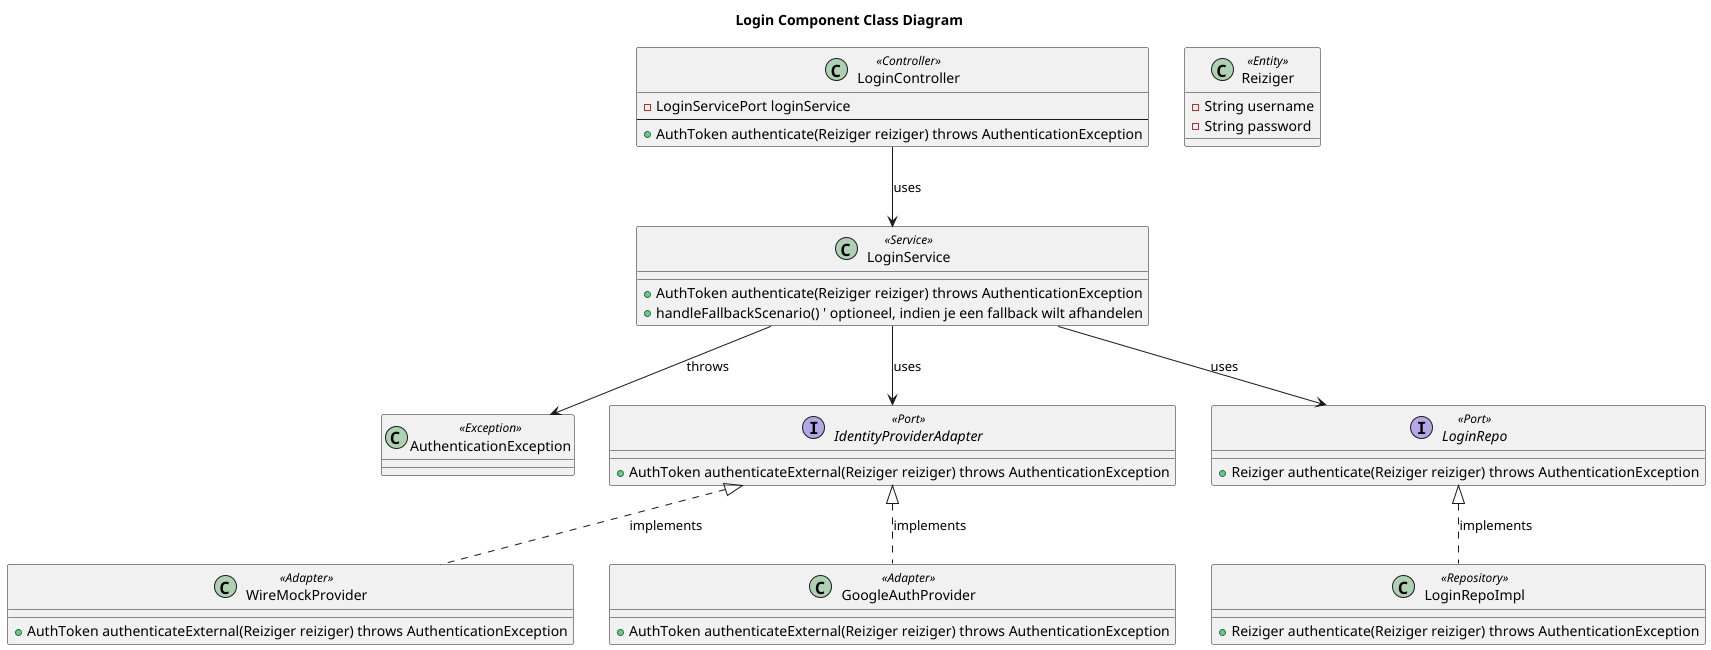
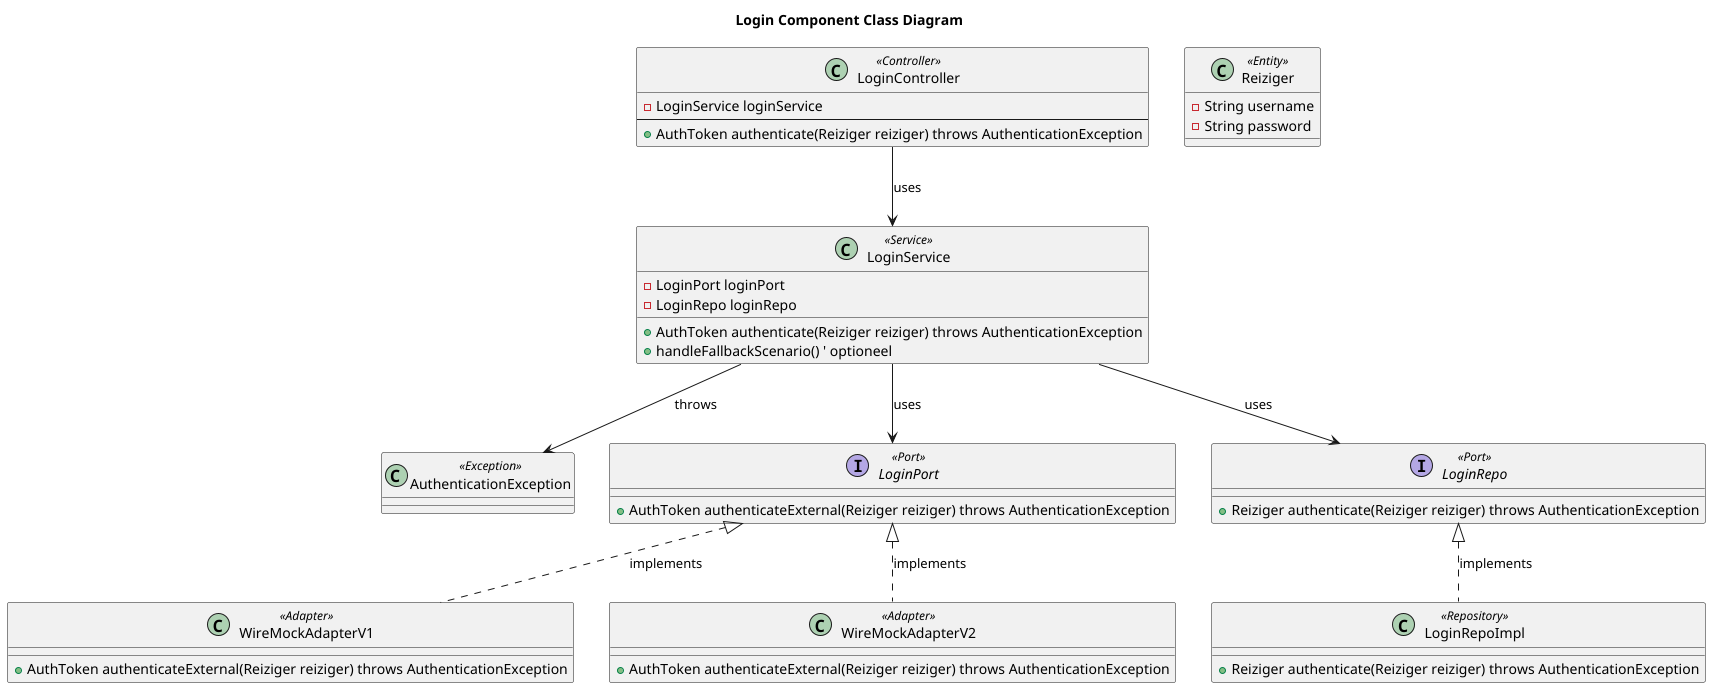
ontwerpvraag

diff --git a/software-guidebook/component-code/ahmed/ReadMe.MD b/software-guidebook/component-code/ahmed/ReadMe.MD
@@ -1,34 +1,28 @@
 
 ### Design Pattern en Principe Keuze
 
-Voor mijn design pattern keuze heb ik gekozen voor het **Adapter Pattern**. Dit pattern maakt het mogelijk om externe authenticatieproviders, zoals de WireMock API en Google Auth API, op een uniforme en uitbreidbare wijze te integreren. Dankzij het Adapter Pattern kan de Login Service eenvoudig overschakelen tussen verschillende externe providers of nieuwe providers toevoegen zonder de bestaande code te wijzigen. Dit sluit naadloos aan bij het **Open/Closed Principe**, waarbij het systeem open is voor uitbreiding maar gesloten voor aanpassingen.
+Voor mijn design pattern keuze heb ik gekozen voor het Adapter Pattern. Dit pattern maakt het mogelijk om de communicatie met externe authenticatieproviders op een uniforme en uitbreidbare wijze te organiseren. In dit geval integreer ik met de WireMock API, waarbij ik twee versies onderhoud (WireMock Adapter v1 en v2). Dankzij het Adapter Pattern kan de Login Service eenvoudig overschakelen tussen verschillende adapter-implementaties of nieuwe versies toevoegen zonder de bestaande code te wijzigen. Dit sluit naadloos aan bij het Open/Closed Principe, omdat het systeem open is voor uitbreiding maar gesloten voor modificatie.
 
-Daarnaast pas ik het **Single Responsibility Principe** toe, wat inhoudt dat elke klasse slechts één specifieke verantwoordelijkheid heeft. Zo is de Login Controller uitsluitend verantwoordelijk voor het verwerken van authenticatieaanvragen, terwijl de Login Service de businesslogica beheert en de adapter (via de IdentityProviderAdapter interface) de communicatie met externe systemen afhandelt. Deze duidelijke scheiding van verantwoordelijkheden zorgt voor een beter onderhoudbaar en testbaar systeem.
+Daarnaast pas ik het Single Responsibility Principe toe, wat betekent dat elke klasse slechts één specifieke verantwoordelijkheid heeft. De Login Controller verwerkt alleen de inlogverzoeken, de Login Service beheert de businesslogica, en de adapters (via de Login Port) zorgen voor de communicatie met de externe API. Deze duidelijke scheiding van verantwoordelijkheden maakt het systeem eenvoudiger te onderhouden en te testen.
+
+Door meerdere versies van de WireMock Adapter te behouden, kan ik bestaande functionaliteit ondersteunen terwijl ik nieuwe versies geleidelijk implementeer. Hierdoor blijft de front-end stabiel, zelfs als de externe API verandert.
 
 ---
 ### COMPONENT DIAGRAM
 
-![Component Diagram](login-controller-Component_Diagram___TripTop_Backend.png)
+![Component Diagram](component-Component_Diagram___TripTop_Backend.png)
 
-Ik gebruik een aparte Login Port omdat ik hiermee duidelijk maak waar de grens ligt tussen de interne logica van mijn Login Service en de externe authenticatieproviders. Mijn Login Service praat namelijk niet direct met externe systemen. In plaats daarvan gaat alle communicatie via een afgesproken contract, de Login Port. Hierdoor blijft mijn systeem netjes en losgekoppeld.
+Door de adapters en de port op te nemen in het code diagram laat ik duidelijk zien hoe de verschillende lagen met elkaar communiceren en hoe de verantwoordelijkheden verdeeld zijn. De Login Port fungeert als een vast contract tussen de Login Service en de externe API's. Dit betekent dat de service alleen met de port hoeft te werken, ongeacht welke concrete adapter er wordt gebruikt. De concrete adapters, zoals WireMock Adapter v1 en v2, vertalen de interne verzoeken naar de juiste externe API-aanroepen. Hierdoor blijft de interne logica van de applicatie onveranderd, zelfs als de externe API verandert.
 
-In plaats van één algemene Login Adapter heb ik ervoor gekozen om twee aparte componenten te maken. De WireMock Adapter verzorgt de communicatie met de WireMock API, en de Google Auth Adapter regelt de communicatie met de Google Auth API. Dit maakt mijn systeem uitbreidbaar, want als ik in de toekomst een nieuwe externe provider wil toevoegen, kan ik simpelweg een nieuwe adapter maken die het contract van de Login Port volgt.
-
-Omdat mijn Login Service alleen weet dat hij met de Login Port werkt, hoeven bij veranderingen aan de externe API’s alleen de bijbehorende adapter aangepast te worden. Dit zorgt voor een losse koppeling en dat nieuwe adapters makkelijk kunnen worden toegevoegd zonder dat ik de bestaande service hoef aan te passen. Bovendien heeft elke component precies één taak: de service verwerkt de logica, de port definieert het contract en de adapters regelen de externe communicatie. Dit maakt mijn systeem eenvoudig te onderhouden en te testen.
+De oude versie, in dit geval WireMock Adapter v1, wordt behouden zodat bestaande functionaliteit en gebruikers niet direct worden getroffen door eventuele wijzigingen in de externe API. Op deze manier kunnen we stap voor stap overstappen naar de nieuwe versie (v2) terwijl de oude versie nog steeds operationeel blijft. Dit zorgt ervoor dat de front-end stabiel blijft, omdat het alleen communiceert met een vast contract (de Login Port) en niet direct met de veranderende externe API's. Deze aanpak maakt de architectuur flexibel, onderhoudbaar en minder gevoelig voor brekende wijzigingen.
 
 ---
 
 ### CODE DIAGRAM
 ![Component Diagram](login-Login_Component_Class_Diagram.png)
 
-
+    
 ---
 
 
-### Samenvatting
 
-- **Adapter Pattern:** Zorgt voor een losgekoppelde integratie van externe authenticatieproviders, waardoor je flexibel kunt inspelen op wijzigingen of uitbreidingen zonder de bestaande code aan te passen.
-- **Open/Closed Principe:** Door de toepassing van het Adapter Pattern kun je eenvoudig nieuwe providers toevoegen, wat betekent dat je systeem uitbreidbaar is zonder de bestaande implementatie te veranderen.
-- **Single Responsibility Principe:** Elke klasse heeft een duidelijke, afgebakende verantwoordelijkheid, wat leidt tot een beter onderhoudbaar en testbaar systeem.
-
-Deze keuzes maken jouw authenticatie-architectuur robuust, flexibel en future-proof.
